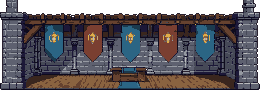
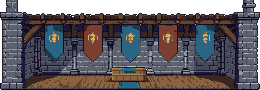
Lanternhold look 2: the hall's dais in light oak (two low steps, lit treads; the seated lord reads before it) and the dark dead bush painted out of cleftFace and cleftFaceEnd

Changed region(s): [[0.4308, 0.7556, 0.5846, 0.9111]]

diff --git a/games/lanternhold/tools/frontart.py b/games/lanternhold/tools/frontart.py
@@ -4,6 +4,7 @@ town's level (tools/townart.py's vocabulary) inside their old silhouettes. Pure 
 colours only; no randomness (hashes of the position), so a run reproduces its files byte for byte.
 
   frontart.py repaint <chapel|kitchen> <sprite.png>     in place
+  frontart.py repaint hallInterior <sprite.png>         in place: only the dais's wood, lighter (section 18)
 
 The sprite on disk (the Recraft conversion of build-art.sh) gives only the silhouette: every opaque pixel is painted
 anew, no transparent one is touched, so chapelInterior and kitchenInterior (roomscenes.py paints them inside the
@@ -312,7 +313,38 @@ def kitchen(src):
     return finish(im, src)
 
 
-BUILD = {"chapel": chapel, "kitchen": kitchen}
+def hallInterior(src):
+    """Stage 6 (ART-look2.md section 18): the hall's dais in light oak, so the seated lord reads before it. The
+    conversion's dais is two dark boxes with the carpet between them. Here it is two low steps: lit treads in straw,
+    risers in woodLight with a board joint every 7 px, a shadow line under each nosing, the right end a step darker.
+    Only the dais's own wood is painted (rows 68 to 80, x 112 to 145); the carpet, the wall behind, the floor before
+    it and the shadow at its foot (row 81) stay, and so does every transparent pixel."""
+    im = src
+    keep = tuple(col(n) for n in ("banner", "roofDeep", "roofLight", "tile", "tileLight", "gold"))
+    for y in range(68, 81):
+        for x in range(112, 146):
+            c = im.get(x, y)
+            if c[3] == 0 or c in keep:
+                continue
+            if y in (68, 74):
+                n = "straw"                                         # the two treads
+            elif y == 69:
+                n = "woodLight"
+            elif y in (70, 75):
+                n = "wood"                                          # the shadow under the nosing
+            elif y == 80:
+                n = "wood"
+            else:
+                n = "wood" if (x - 112 + (3 if y > 74 else 0)) % 7 == 0 else "woodLight"
+            if x == 112 and y not in (70, 75, 80):
+                n = "straw"                                         # the lit left end
+            if x >= 143:
+                n = DOWN.get(n, "wood") if n != "straw" else "woodLight"
+            px(im, x, y, n)
+    return im
+
+
+BUILD = {"chapel": chapel, "kitchen": kitchen, "hallInterior": hallInterior}
 
 
 def main():
